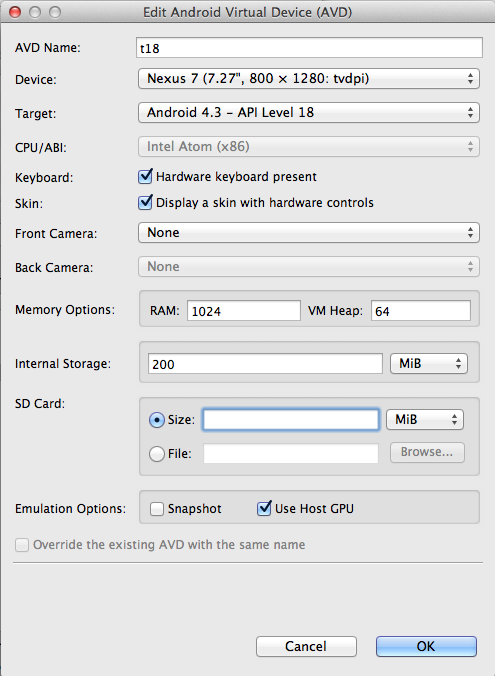
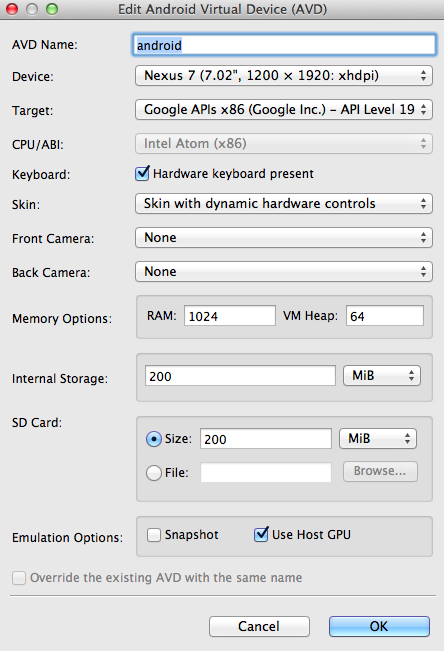
Update install doc

diff --git a/osx.md b/osx.md
@@ -1,59 +1,46 @@
 ### Getting Started
 
-This document is written for OS X 10.8.4 or better. iOS testing requires OS X. Android testing works on OS X, Windows, and Linux. 
+This document is written for OS X 10.9.2 or better. iOS testing requires OS X. Android testing works on OS X, Windows, and Linux. 
 
 For OS X, there is rake script which will attempt to do most of this for you, with
+
 ```
 rake -f osx_install.rake
 ```
+
 The rake script will not install Xcode, etc., nor Java, but should take care of everything else. 
 Changes to these instructions might imply changes to that script as well.
 
 #### Steps to install
 
-Install `Xcode` 4.6.3 (iOS 6) or 5.0.2 (iOS 7).
+Install `Xcode` 5.1.1.
 
 - Xcode 5.0.0 shouldn't be used for iOS 6 as it's flaky.
 - Xcode 5.0.1 is broken.
 - Xcode 4.6.3 doesn't support iOS 7.
 
-After that, install the command line build tools (Xcode -> Preferences -> Downloads).
+After that, install the command line build tools for your version of OS X (Xcode -> Open Developer Tools -> More Developer Tools).
  
-If you're testing iOS 6, then install `Xcode 4.6.3` from [Apple](https://developer.apple.com/downloads/index.action).
-For iOS 7+ make sure to use Xcode 5.0.2.
-
-That done, you'll need to create a symlink for
-`gcc` to get the ruby build (particularly FFI) to install properly. This isn't required on OS X 10.9.
-If `/usr/local/bin` is in your path, you can do:
-```
-ln -s /usr/bin/gcc /usr/local/bin/gcc-4.2
-```
-Otherwise
-```
-sudo ln -s /usr/bin/gcc /usr/bin/gcc-4.2
-```
-Reinstall Ruby if you didn't set this symlink and have FFI issues.
-
 - Install Java 7 if there's no Java on the system.
   - [JDK 7](http://www.oracle.com/technetwork/java/javase/downloads/index.html)
 
-- Install the latest stable patch release of Ruby 2.0.
+- Install stable release of Ruby.
 
-`$ \curl -L https://get.rvm.io | bash -s stable --ruby=2.0.0`
+`$ \curl -L https://get.rvm.io | bash -s stable --ruby`
 
 - Make sure RVM is using the correct Ruby by default
 
 ```
 $ rvm list
-$ rvm --default use 2.0.0
+$ rvm --default use 2.1.1
 ```
 
-- If you have an old ruby, you can installing Ruby 2.0 instead
+- If you have an old ruby, you can installing Ruby 2.1.1 instead
 
 ```
 $ rvm get head
 $ rvm autolibs homebrew
-$ rvm install 2.0.0
+$ rvm install 2.1.1
 ```
 
 - Check that it's installed properly by printing the ruby version.
@@ -173,19 +160,16 @@ PATH=$PATH:$ANDROID_HOME/build-tools
 PATH=$PATH:$ANDROID_HOME/platform-tools
 PATH=$PATH:$ANDROID_HOME/tools
 export JAVA_HOME="`/System/Library/Frameworks/JavaVM.framework/Versions/Current/Commands/java_home`"
-export APP_PATH="/path/to/MyiOS.app"
-export APK_PATH="/path/to/my.apk"
-export APP_PACKAGE="com.example.Package"
-export APP_ACTIVITY="StartActivity"
-export APP_WAIT_ACTIVITY="SplashActivity"
 
 export PATH
 ```
 
 - Run `android` to open the SDK manager. 
 - Install `Intel x86 Emulator Accelerator (HAXM)` under Extras
-- Install API 18 `SDK Platform`, `Intel x86 Atom System Image`, `Google APIs`
+- Install API 19 `SDK Platform`, `Intel x86 Atom System Image`, `Google APIs`
 If there are any problems viewing or downloading the packages, go to `Packages -> Reload` and try again.
+
+![](img/packages.png)
 
 - Create a new Android virtual device that uses the Intel image. Ensure `Use Host GPU` is checked. Set `VM Heap` to `64`. `32` is too small.
 
@@ -196,11 +180,11 @@ If there are any problems viewing or downloading the packages, go to `Packages -
 - Check that `hax is working` If it's not, install hax [directly from Intel](http://software.intel.com/en-us/articles/intel-hardware-accelerated-execution-manager)
 
 ```bash
-$ emulator @t18
+$ emulator @android
 HAX is working and emulator runs in fast virt mode
 ```
 
-- Launch the emulator with `emulator @t18`
+- Launch the emulator with `emulator @android`
 
 - After launching the emulator, check that it's listed in adb devices. Run the following commands a few times until it's listed.
 
@@ -209,10 +193,6 @@ HAX is working and emulator runs in fast virt mode
 If you see `error: protocol fault (no status)` just keep running the command until the emulator is detected.
 
 - With both the Android emulator running and the Appium server started, it's time to launch the appium console. Make sure the ENV vars are exported.
-
-- Echo the values to make sure they're set correctly
-
-`$ echo $APP_PATH $APP_PACKAGE $APP_ACTIVITY $APP_WAIT_ACTIVITY`
 
 - Start appium console
 
@@ -270,9 +250,7 @@ Install the [HAXM 10.9 hotfix](http://software.intel.com/en-us/articles/intel-ha
 
 `xcode-select --install`
 
-
 - [Install specific node version](https://coderwall.com/p/lqphzg)
-
 
 #### Corrupt ruby gems
 
